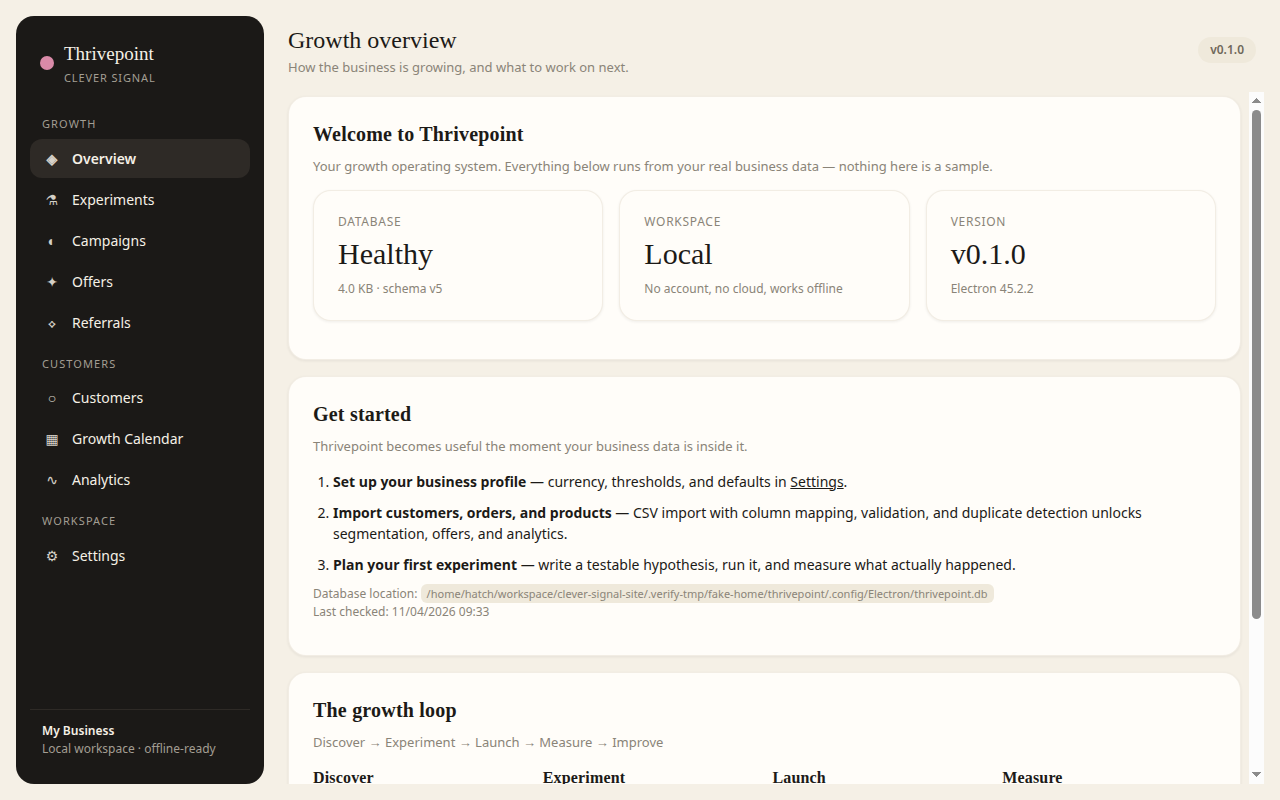
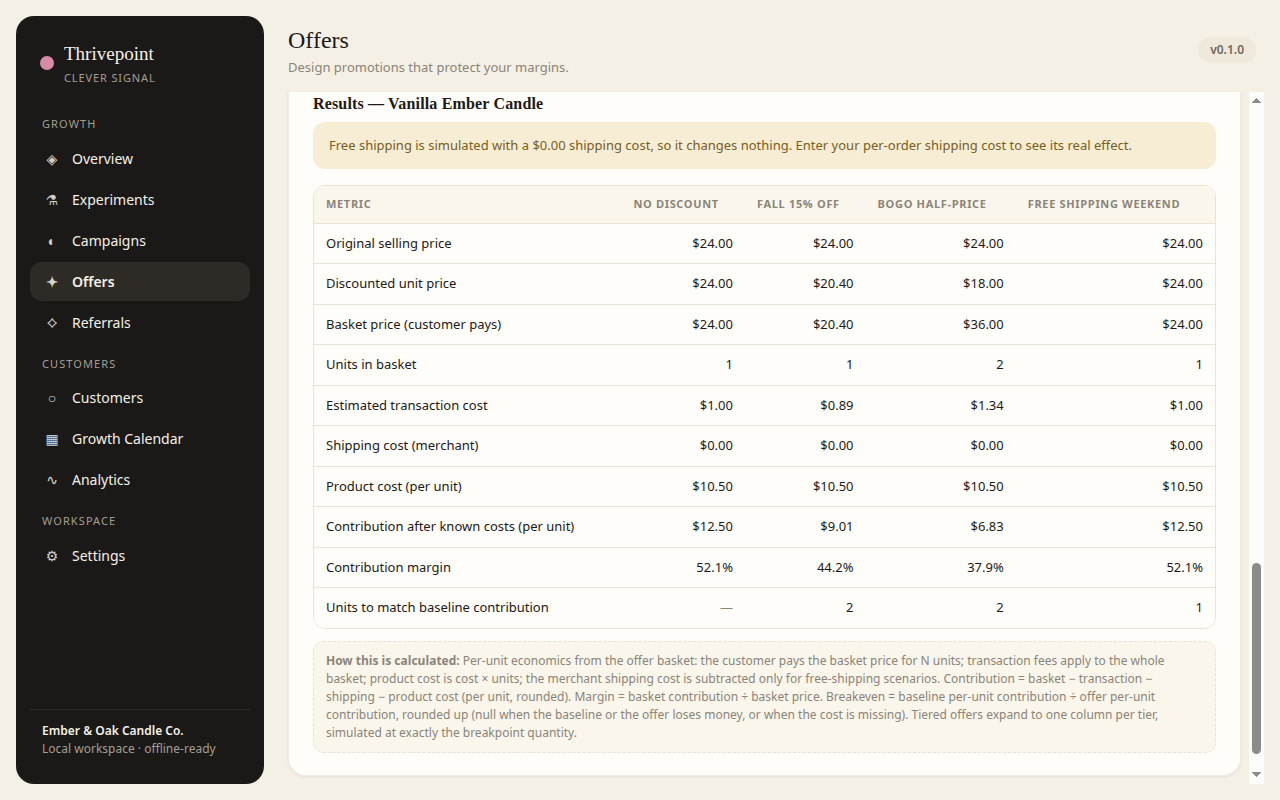
Product names in official brand colors (cards + product page titles)

diff --git a/src/components/ProductCard.tsx b/src/components/ProductCard.tsx
@@ -54,7 +54,7 @@ export function ProductCard({ product, index }: { product: Product; index: numbe
           className="lineup-tile"
           loading="lazy"
         />
-        <h3 className="lineup-name">
+        <h3 className="lineup-name" style={{ color: product.accent }}>
           <Link to={productUrl(product.slug)}>{displayName}</Link>
         </h3>
         <p className="lineup-desc">{product.shortDescription}</p>

diff --git a/src/pages/ProductDetail.tsx b/src/pages/ProductDetail.tsx
@@ -37,7 +37,7 @@ export function ProductDetail() {
           </p>
           <div className="product-hero-grid">
             <div>
-              <h1>{product.name}</h1>
+              <h1 style={{ color: product.accent }}>{product.name}</h1>
               <p className="product-positioning">{product.positioning}</p>
               <div className="product-hero-meta">
                 <StatusBadge status={product.status} />
